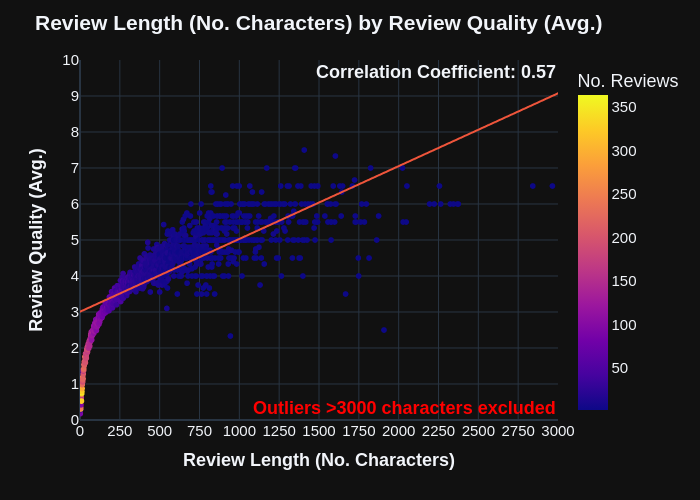
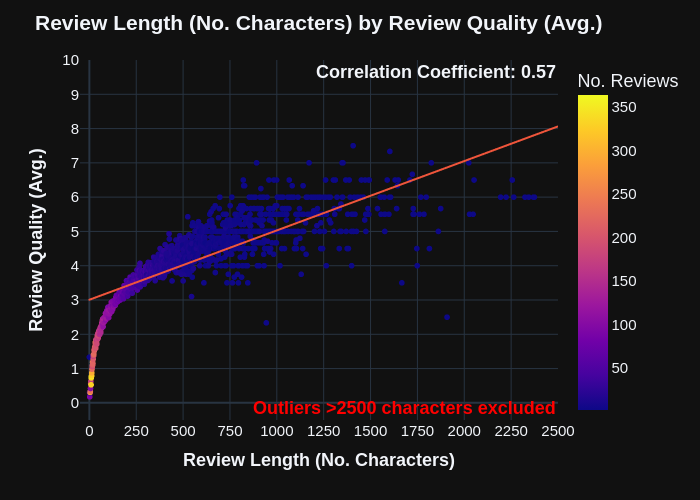
docs: updated plot titles and refined readme

Changed region(s): [[0.09, 0.18, 0.81, 0.87], [0.72, 0.51, 0.75, 0.63], [0.66, 0.51, 0.69, 0.63]]

diff --git a/src/analyse.py b/src/analyse.py
@@ -240,13 +240,13 @@ fig = scatter(
     label_x="Review Length (No. Characters)",
     label_y="Review Quality (Avg.)",
     label_z="No. Reviews",
-    xrange=[0, 3_000],
-    yrange=[0, 10],
+    xrange=[-50, 2_500],
+    yrange=[-0.5, 10],
     xtick=250,
     ytick=1,
     correlation=eval_length_pearson,
     outlier=True,
-    outlier_text="Outliers >3000 characters excluded",
+    outlier_text="Outliers >2500 characters excluded",
 )
 fig.show()
 fig.write_image("../media/avg_eval_by_length.png")
@@ -297,12 +297,12 @@ fig = scatter(
     label_x="Price ($USD)",
     label_y="Review Quality (Avg.)",
     label_z="No. Reviews",
-    xrange=[0, 2000],
-    yrange=[0, 10],
+    xrange=[-50, 1000],
+    yrange=[-0.5, 10],
     ytick=1,
     correlation=eval_price_pearson,
     outlier=True,
-    outlier_text="Outliers >$2000 excluded",
+    outlier_text="Outliers >$1000 excluded",
 )
 fig.show()
 fig.write_image("../media/avg_eval_by_price.png")
@@ -317,12 +317,12 @@ fig = scatter(
     label_x="Helpful Votes",
     label_y="Review Quality (Avg.)",
     label_z="No. Reviews",
-    xrange=[0, 1000],
-    yrange=[0, 10],
+    xrange=[-10, 400],
+    yrange=[-0.5, 10],
     ytick=1,
     correlation=eval_help_pearson,
     outlier=True,
-    outlier_text="Outliers >1000 helpful votes excluded",
+    outlier_text="Outliers >400 helpful votes excluded",
 )
 fig.show()
 fig.write_image("../media/avg_eval_by_help_true.png")
@@ -333,17 +333,17 @@ fig = scatter(
     data=avg_eval_by_help,
     x="helpful_vote",
     y="average_evaluation",
-    z=None,
+    z="n",
     size=None,
     label_x="Helpful Votes",
     label_y="Review Quality (Avg.)",
     label_z="No. Reviews",
-    xrange=[-50, 1000],
+    xrange=[-10, 400],
     yrange=[-0.5, 10],
     ytick=1,
     correlation=eval_help_pearson,
     outlier=True,
-    outlier_text="Outliers >1000 helpful votes excluded",
+    outlier_text="Outliers >400 helpful votes excluded",
 )
 fig.show()
 fig.write_image("../media/avg_eval_by_help.png")
@@ -362,8 +362,8 @@ fig = px.line(
         "rating": "<b>Rating</b>",
     },
 )
-fig.update_xaxes(dtick=1, range=[0, 10])
-fig.update_yaxes(tickformat=".2%")
+fig.update_xaxes(dtick=1, range=[-0.5, 10])
+fig.update_yaxes(tickformat=".2%", range=[-0.03, 0.35])
 fig.update_layout(
     title="<b>Distribution of Review Quality by Star Rating</b>",
     xaxis_title="<b>Quality</b>",
@@ -372,11 +372,12 @@ fig.update_layout(
     legend=dict(title="<b>Star Rating</b>"),
 )
 fig.show()
+
 fig.write_image("../media/pct_eval_by_rating.png")
 
-pct_eval_by_rating = duckdb.sql(open_sql("pct-eval")).pl()
+pct_eval = duckdb.sql(open_sql("pct-eval")).pl()
 fig = px.line(
-    pct_eval_by_rating,
+    pct_eval,
     x="evaluation",
     y="percentage",
     markers=True,
@@ -385,10 +386,10 @@ fig = px.line(
         "percentage": "<b>Percentage</b>",
     },
 )
-fig.update_xaxes(dtick=1, range=[0, 10])
-fig.update_yaxes(tickformat=".2%")
+fig.update_xaxes(dtick=1, range=[-0.5, 10])
+fig.update_yaxes(tickformat=".2%", range=[-0.03, 0.30])
 fig.update_layout(
-    title="<b>Distribution of Review Quality by Star Rating</b>",
+    title="<b>Distribution of Review Quality</b>",
     xaxis_title="<b>Quality</b>",
     yaxis_title="<b>Percentage</b>",
     font=dict(size=15),

diff --git a/docs/README.md b/docs/README.md
@@ -20,11 +20,11 @@ The analysis pipeline consisted of four main stages:
 2. **Data Processing:** Developed two separate data processing pipelines
    tailored to the environment:
 
-   - Apache Spark: Built a distributed pipeline as part of a learning initiative
-     to understand its scalability for handling large datasets, even though the
-     setup was on a single machine.
-   - Polars: Created a separate single-node pipeline to optimize performance for
-     local processing, significantly reducing runtime for the same tasks.
+   - **Apache Spark:** Built a distributed pipeline as part of a learning
+     initiative to understand its scalability for handling large datasets, even
+     though the setup was on a single machine.
+   - **Polars:** Created a separate single-node pipeline to optimize performance
+     for local processing, significantly reducing runtime for the same tasks.
 
 3. **Review Quality Assessment**:
 
@@ -129,25 +129,6 @@ relatively low, which suggests that you shouldn't discard reviews just because
 they are short, low in price, or high in rating – there are various other
 factors not included in this model that predict review quality to a significant
 degree.
-
-## Other Insights
-
-### Category
-
-Another interesting finding to consider is the effect of review category:
-
-![avg-eval-by-category](../media/avg_eval_by_category.png)
-
-For categories with a decent sample size, the "Gift Card" section seems to be
-the worst, and the "Computers" section seems to be the best!
-
-The "Gift Cards" placement makes sense: what can you really say about a Gift
-Card, other than "It works"?
-
-The "Computers" placement is partially explained by price, where "Computers" has
-the 6th highest average. Additionally, computers can be evaluated across
-multiple objective dimensions (performance, noise, price), in contrast to gift
-cards that only really have one dimension (did it work?)
 
 <details>
    <summary><b>Full Results</b></summary>
@@ -294,6 +275,25 @@ cards that only really have one dimension (did it work?)
   </tr>
 </table>
 </details>
+
+## Other Insights
+
+### Category
+
+Another interesting finding to consider is the effect of review category:
+
+![avg-eval-by-category](../media/avg_eval_by_category.png)
+
+For categories with a decent sample size, the "Gift Card" section seems to be
+the worst, and the "Computers" section seems to be the best!
+
+The "Gift Cards" placement makes sense: what can you really say about a Gift
+Card, other than "It works"?
+
+The "Computers" placement is partially explained by price, where "Computers" has
+the 6th highest average. Additionally, computers can be evaluated across
+multiple objective dimensions (performance, noise, price), in contrast to gift
+cards that only really have one dimension (did it work?)
 
 # Practical Recommendations
 
